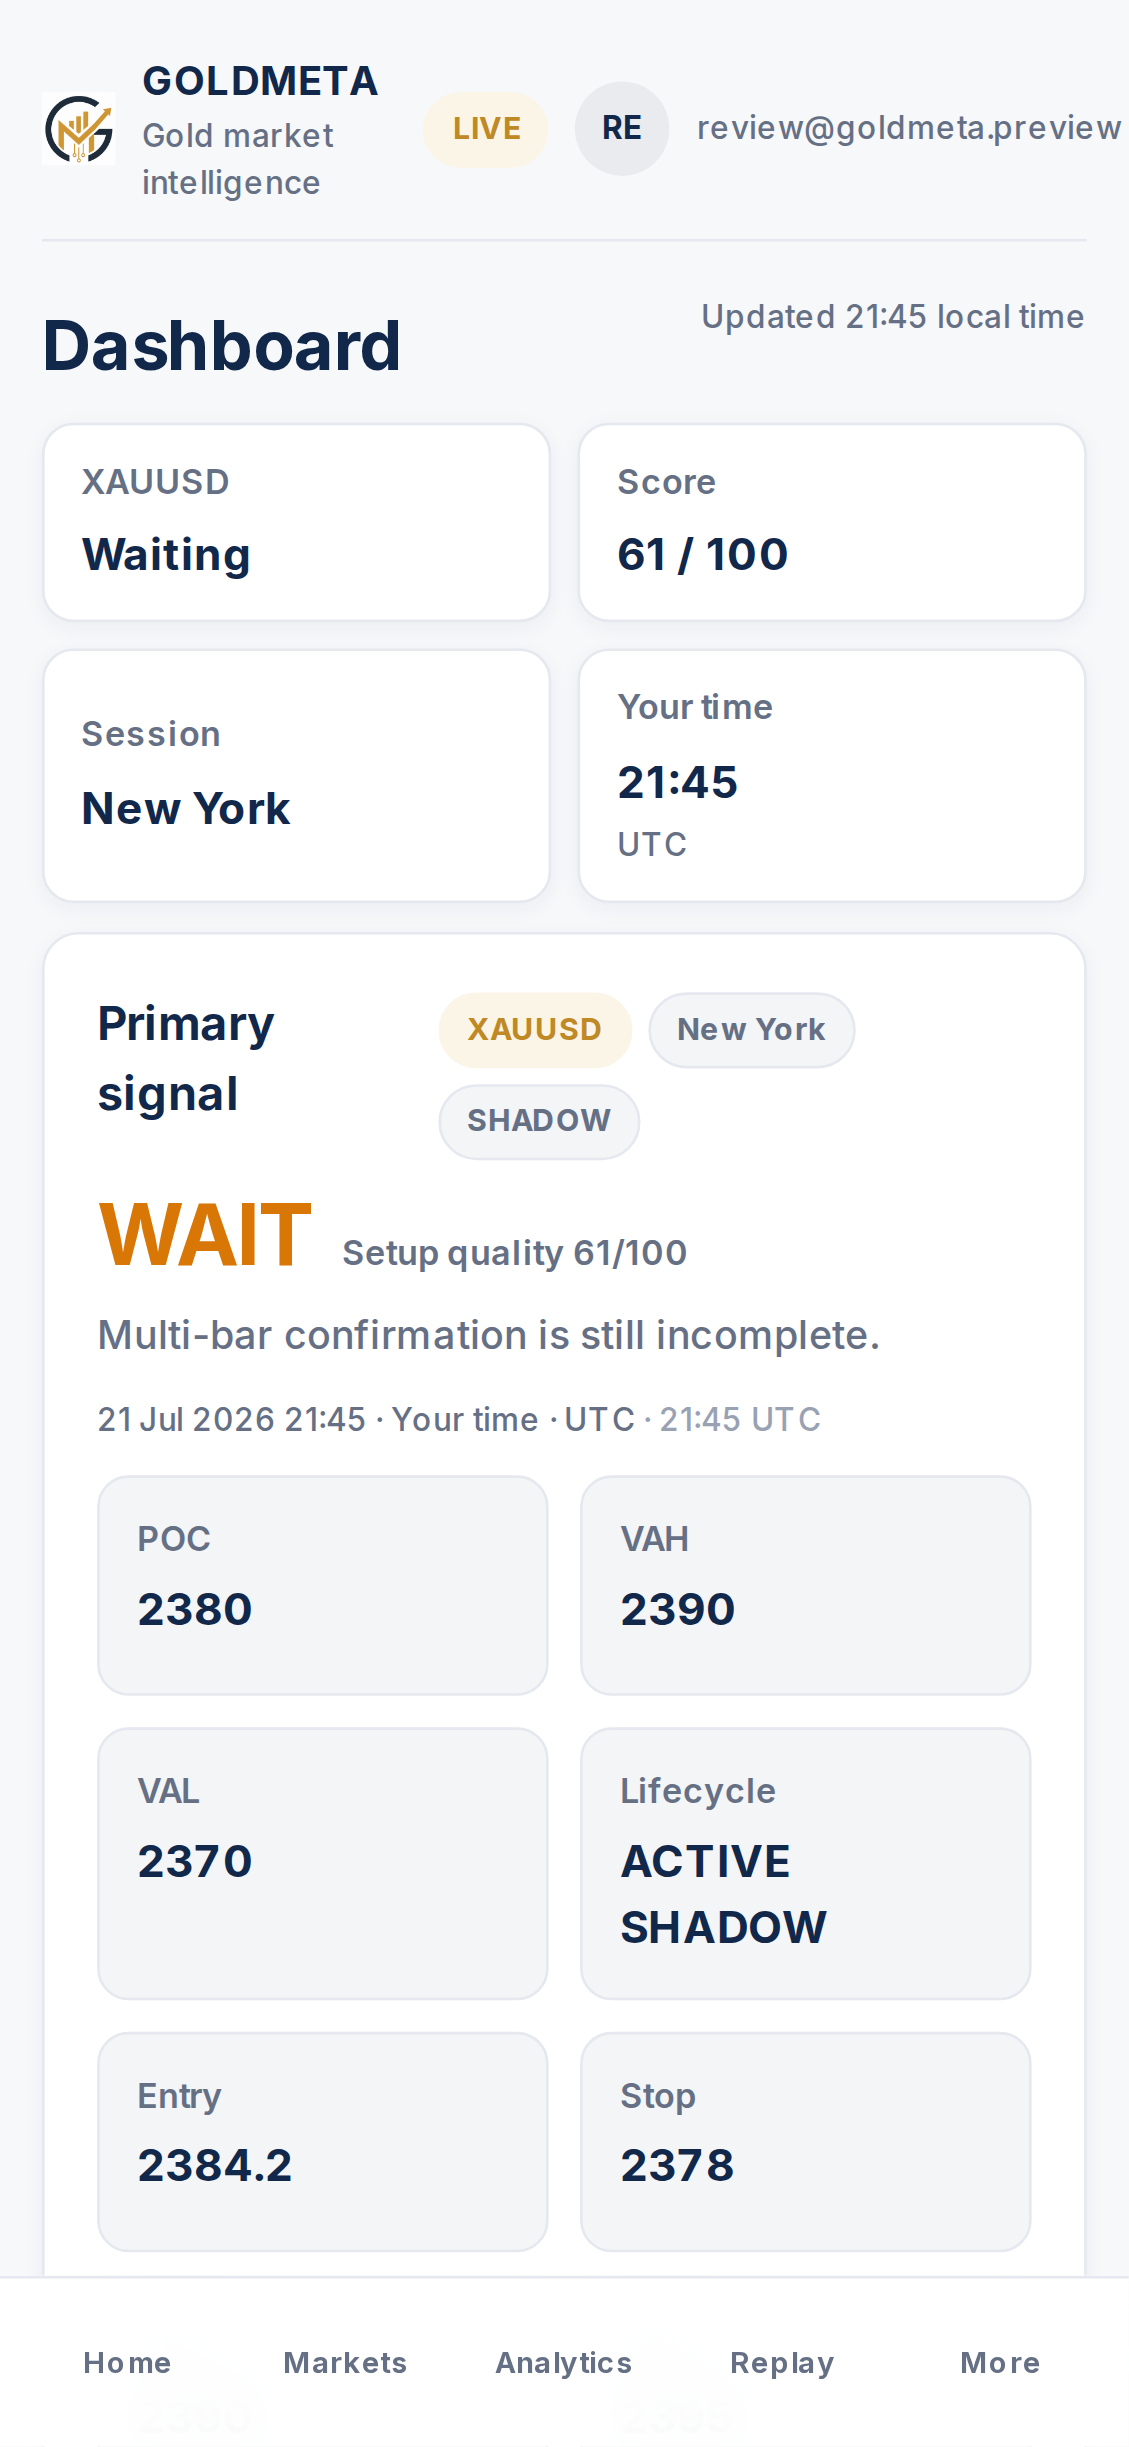
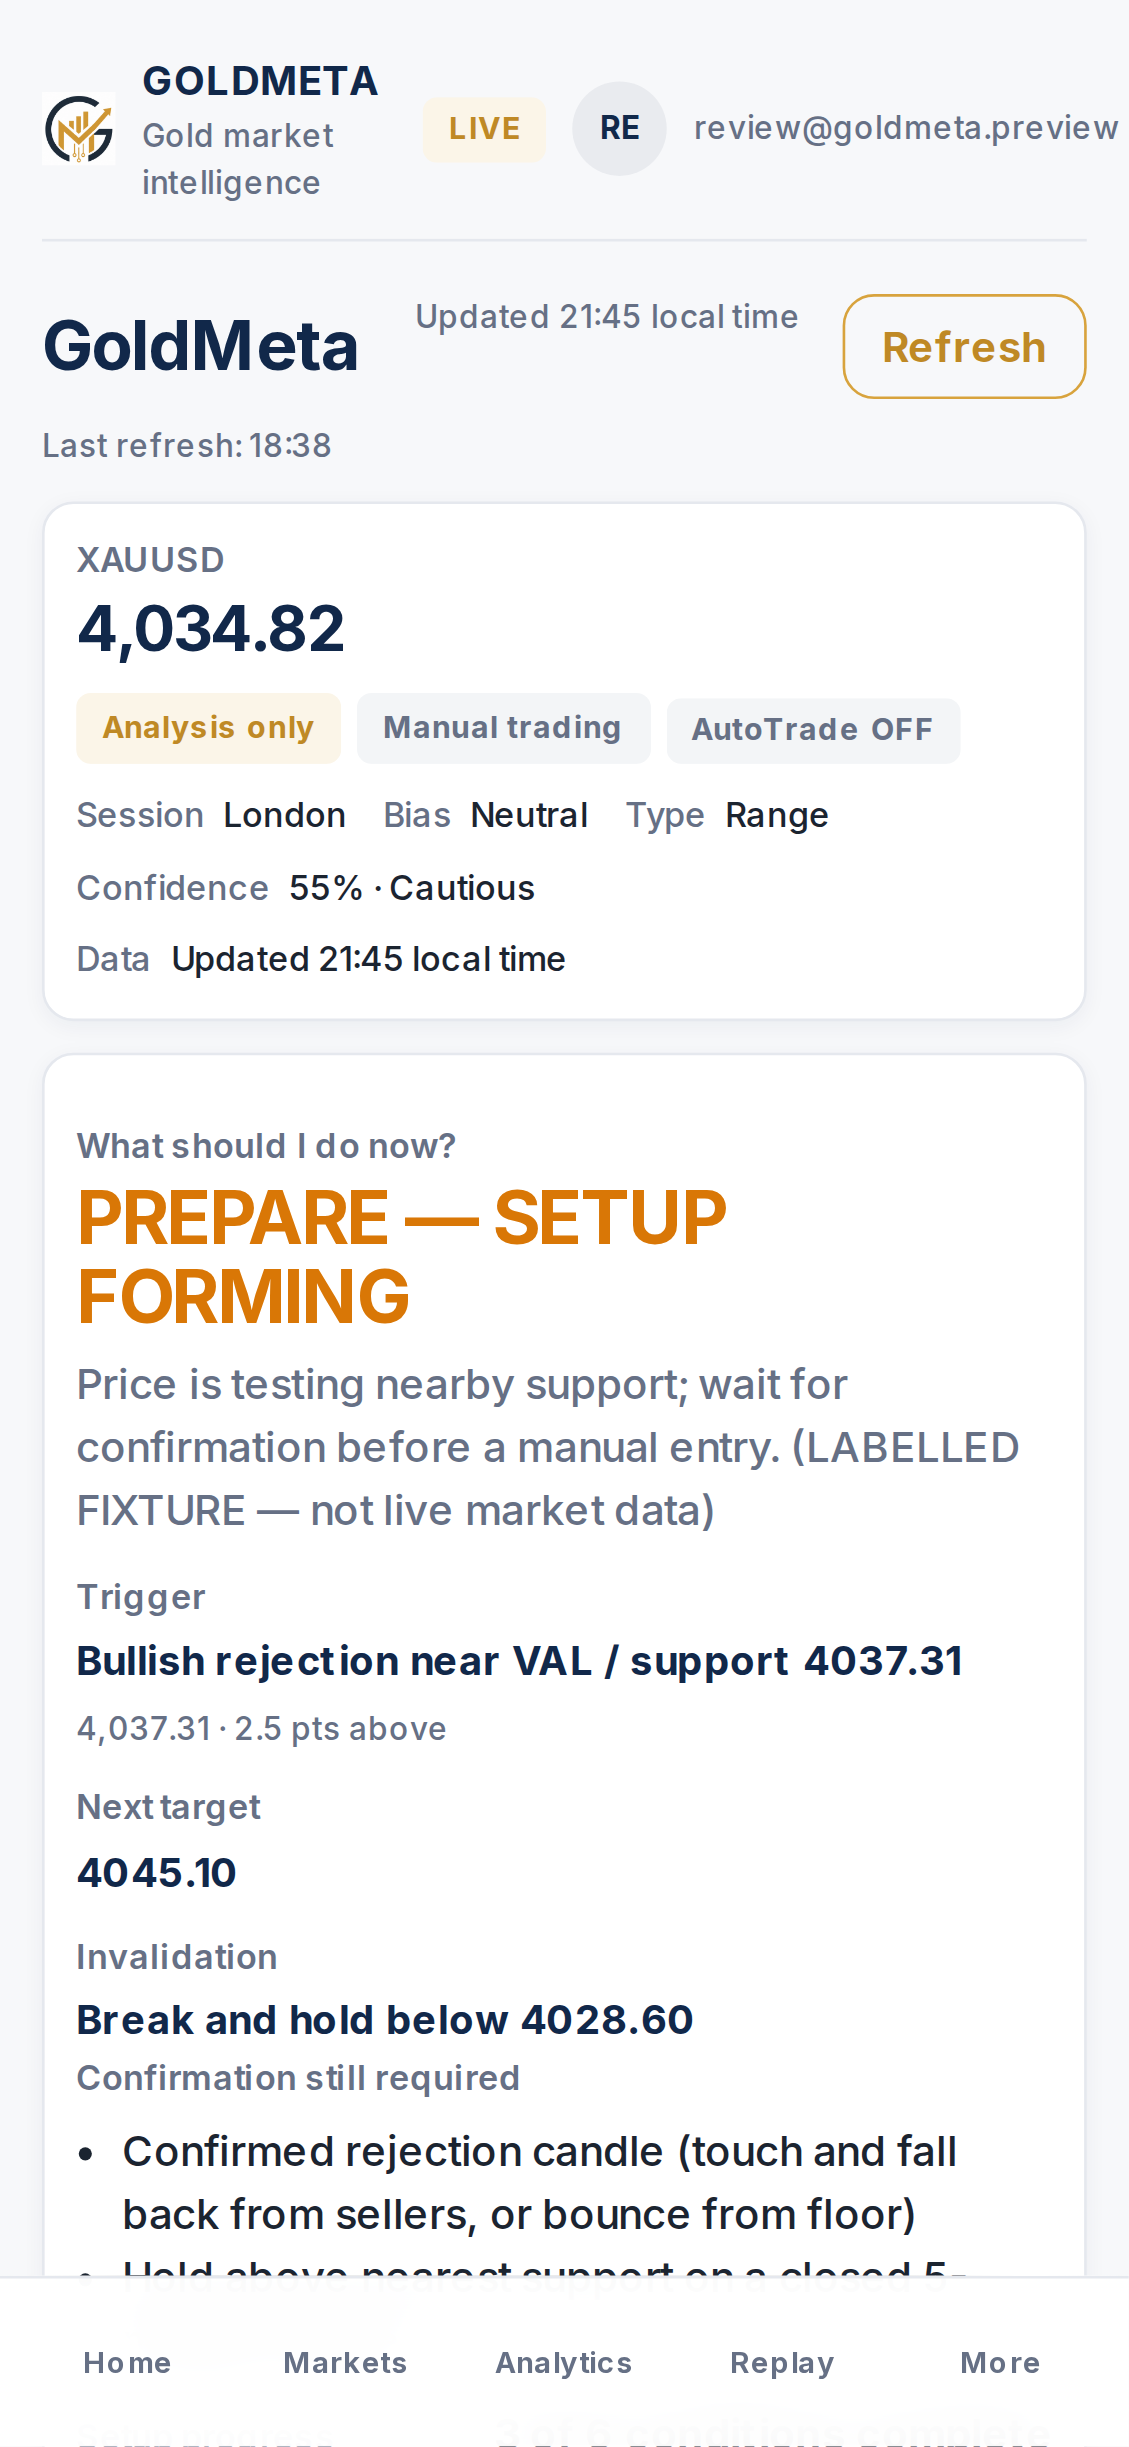
fix(ui-review): align Issue #50 fixtures and update Market Structure e2e
Default ui-review uses the labelled chart-example ~4034 plan. PR #46
market-match stays on ~4050. E2E selectors updated for action-first home
and collapsed System status. AutoTrade remains OFF.

diff --git a/web/src/pages/UiReviewApp.tsx b/web/src/pages/UiReviewApp.tsx
@@ -104,9 +104,10 @@ function buildReviewApi() {
     backendVersion: "review",
     notificationSent: false,
     currentSession: "NEWYORK",
-    lastKnownPrice: 2385.4 as number,
-    ohlcv: { open: 2382, high: 2391, low: 2376, close: 2385.4, volume: 1200 },
-    marketStructure: { trend: "RANGE", poc: 2380, vah: 2390, val: 2370 },
+    // Default UI-review uses Issue #50 labelled chart-example regime (~4034).
+    lastKnownPrice: 4034.815 as number,
+    ohlcv: { open: 4036, high: 4041.2, low: 4031.1, close: 4034.815, volume: 1200 },
+    marketStructure: { trend: "RANGE", poc: 4045.087, vah: 4049.633, val: 4037.308 },
     symbolIdentity: {
       tradingViewSymbol: "XAUUSD",
       exchange: "OANDA",
@@ -116,14 +117,14 @@ function buildReviewApi() {
     priceSources: {
       alertClose: {
         source: "TRADINGVIEW_ALERT",
-        value: 2385.4,
+        value: 4034.815,
         exchangeOrBroker: "OANDA"
       }
     }
   };
 
   // Labelled UI-review fixtures for PR #46 Market Structure mismatch / match.
-  let briefingLevels = { poc: 2380, vah: 2390, val: 2370 };
+  let briefingLevels = { poc: 4045.087, vah: 4049.633, val: 4037.308 };
   if (marketMismatch) {
     decision.decision = "WAIT";
     decision.dataQuality = "CONFLICTED";
@@ -165,6 +166,7 @@ function buildReviewApi() {
     decision.marketDataTime = nowIso;
     decision.generatedAt = nowIso;
     decision.barTime = nowIso;
+    // PR #46 match case stays in the ~4050 verified-alert regime.
     decision.lastKnownPrice = 4045.165;
     decision.ohlcv = { open: 4044, high: 4048, low: 4042, close: 4045.165, volume: 1200 };
     decision.marketStructure = {
@@ -204,14 +206,14 @@ function buildReviewApi() {
     barTime: "2026-07-21T20:00:00.000Z",
     session: "LONDON",
     levels: {
-      entryPrice: 2384.2,
+      entryPrice: 4036.0,
       entryType: "LIMIT",
-      stopLoss: 2378.0,
-      tp1: 2390,
-      tp2: 2395,
-      tp3: 2400
+      stopLoss: 4028.6,
+      tp1: 4045.1,
+      tp2: 4049.8,
+      tp3: 4053.7
     },
-    initialRisk: 6.2,
+    initialRisk: 7.4,
     expectedRR: { tp1: 1, tp2: 1.8, tp3: 2.5 },
     confidence: 55,
     status: "ACTIVE_SHADOW",
@@ -304,6 +306,7 @@ function buildReviewApi() {
             },
             structureDecisionId: decision.decisionId,
             // Labelled Issue #50 fixture for UX review — never production defaults.
+            // Default uses chart-example ~4034; market-match keeps PR #46 ~4050 ladder.
             intradayPlan: marketMismatch
               ? {
                   ...chartExampleIntradayPlanFixture,
@@ -312,9 +315,32 @@ function buildReviewApi() {
                   importantLevels: [],
                   oneSentence:
                     "Market structure sources disagree — stand aside until data is consistent. (LABELLED FIXTURE)",
-                  whyNotReady: "Price-source mismatch blocks important levels."
+                  whyNotReady: "Price-source mismatch blocks important levels.",
+                  expectedRange: {
+                    ...chartExampleIntradayPlanFixture.expectedRange,
+                    currentPrice: 2408,
+                    probableLow: null,
+                    probableHigh: null,
+                    stretchLow: null,
+                    stretchHigh: null
+                  }
                 }
-              : chartExampleIntradayPlanFixture
+              : marketMatch
+                ? {
+                    ...chartExampleIntradayPlanFixture,
+                    oneSentence:
+                      "Matching price sources — complete structure available. (LABELLED FIXTURE — market-match)",
+                    expectedRange: {
+                      ...chartExampleIntradayPlanFixture.expectedRange,
+                      currentPrice: 4045.165,
+                      probableLow: 4047.193,
+                      probableHigh: 4052.975,
+                      stretchLow: 4038,
+                      stretchHigh: 4062
+                    },
+                    importantLevels: []
+                  }
+                : chartExampleIntradayPlanFixture
           },
     listActiveSetups: async () => (empty ? [] : marketMismatch ? [] : [setup]),
     listSetups: async () =>

diff --git a/web/e2e/mobileFit.spec.ts b/web/e2e/mobileFit.spec.ts
@@ -38,8 +38,13 @@ test.describe("V5.4.3 on V5.4.1 — zoom + horizontal overflow", () => {
       await expect(page.getByTestId("overview-page")).toBeVisible();
       expect((await pageOverflow(page)).delta).toBeLessThanOrEqual(1);
 
+      // Score lives inside collapsed System status — open it before expanding.
+      const system = page.getByTestId("system-status-collapse");
+      if (await system.count()) {
+        await system.locator("summary").click();
+      }
       const toggle = page.getByTestId("score-toggle");
-      if (await toggle.count()) {
+      if (await toggle.isVisible().catch(() => false)) {
         await toggle.click();
         await page.waitForTimeout(100);
       }
@@ -94,8 +99,8 @@ test.describe("V5.4.3 on V5.4.1 — zoom + horizontal overflow", () => {
   test("Share Market Snapshot opens from V5.4.1 Dashboard", async ({ page }) => {
     await page.setViewportSize({ width: 390, height: 844 });
     await page.goto("/ui-review/");
-    await expect(page.getByTestId("dashboard-summary")).toBeVisible();
-    await expect(page.getByTestId("primary-signal-card")).toBeVisible();
+    await expect(page.getByTestId("intraday-action-card")).toBeVisible();
+    await expect(page.getByTestId("intraday-header-card")).toBeVisible();
     await expect(page.getByTestId("share-market-snapshot")).toBeVisible();
     await page.getByTestId("share-market-snapshot").click();
     await expect(page.getByTestId("promo-snapshot-modal")).toBeVisible();
@@ -107,6 +112,7 @@ test.describe("V5.4.3 on V5.4.1 — zoom + horizontal overflow", () => {
   test("expanded colourful score reaches News row above bottom nav", async ({ page }) => {
     await page.setViewportSize({ width: 390, height: 844 });
     await page.goto("/ui-review/");
+    await page.getByTestId("system-status-collapse").locator("summary").click();
     await expect(page.getByTestId("goldmeta-score")).toBeVisible();
     const toggle = page.getByTestId("score-toggle");
     await expect(toggle).toBeVisible();
@@ -141,11 +147,12 @@ test.describe("V5.4.3 on V5.4.1 — zoom + horizontal overflow", () => {
     for (const width of [390, 430] as const) {
       await page.setViewportSize({ width, height: width === 390 ? 844 : 932 });
       await page.goto("/ui-review/");
-      await expect(page.getByTestId("primary-decision")).toBeVisible();
+      await expect(page.getByTestId("intraday-action-label")).toBeVisible();
       await page.screenshot({
         path: path.join(outDir, `dashboard-${width}.png`),
         fullPage: false
       });
+      await page.getByTestId("system-status-collapse").locator("summary").click();
       const toggle = page.getByTestId("score-toggle");
       if (await toggle.count()) await toggle.click();
       await page.screenshot({

diff --git a/web/e2e/marketStructureMismatch.spec.ts b/web/e2e/marketStructureMismatch.spec.ts
@@ -3,6 +3,7 @@ import { expect, test } from "@playwright/test";
 /**
  * PR #46 — Market Structure price-source mismatch / match (ui-review fixtures).
  * No broker orders. AutoTrade remains OFF.
+ * Issue #50: primary action uses intraday-action-label (NO TRADE on mismatch).
  */
 test.describe("Market Structure Map price sources", () => {
   test("mismatch case blocks ladder and shows Market data mismatch", async ({ page }) => {
@@ -25,18 +26,14 @@ test.describe("Market Structure Map price sources", () => {
       page.getByTestId("market-level-ladder").getByText("LIVE PRICE", { exact: true })
     ).toHaveCount(0);
 
-    // Primary signal stays WAIT — no BUY/SELL recommendation
-    await expect(page.getByTestId("primary-decision")).toContainText(/WAIT/i);
-    await expect(page.getByTestId("summary-decision")).toContainText(/WAIT|waiting/i);
-    await expect(page.getByTestId("dashboard-autotrade-off")).toContainText(/AutoTrade OFF/i);
+    // Issue #50: mismatch → NO TRADE (not a BUY/SELL recommendation)
+    await expect(page.getByTestId("intraday-action-label")).toContainText(/NO TRADE/i);
+    await expect(page.getByTestId("intraday-autotrade-off")).toContainText(/AutoTrade OFF/i);
 
-    // Diagnostics expose conflict codes
-    const details = page.getByTestId("primary-signal-card").locator("details");
-    if (await details.count()) {
-      await details.first().click();
-    }
-    await expect(page.getByTestId("primary-signal-card")).toContainText(/PRICE_SOURCE_MISMATCH/);
-    await expect(page.getByTestId("primary-signal-card")).toContainText(/CONFLICTED_DATA/);
+    // Diagnostics expose conflict codes inside collapsed System status
+    await page.getByTestId("system-status-collapse").locator("summary").click();
+    await expect(page.getByTestId("system-status-collapse")).toContainText(/PRICE_SOURCE_MISMATCH/);
+    await expect(page.getByTestId("system-status-collapse")).toContainText(/CONFLICTED_DATA/);
   });
 
   test("matching ~4050 case renders ladder without mismatch warning", async ({ page }) => {

diff --git a/web/src/pages/OverviewPage.tsx b/web/src/pages/OverviewPage.tsx
@@ -435,13 +435,15 @@ export function OverviewPage() {
         diagnostics={marketStructureDiagnostics}
         decisionId={decision?.decisionId}
       >
-        <p className="gm-meta">
+        <p className="gm-meta" data-testid="system-status-reasons">
           Legacy decision code: {decisionCode}. Reasons:{" "}
           {plainLanguageReason(
             decision?.reasonCodes ??
               (Array.isArray(decision?.reasonSummary) ? decision.reasonSummary : undefined),
             undefined
           )}
+          <br />
+          Raw codes: {(decision?.reasonCodes ?? []).join(", ") || "none"}
         </p>
         <div className="gm-trading-status-row" data-testid="dashboard-safety">
           <span className="gm-badge warning">Trading locked</span>
